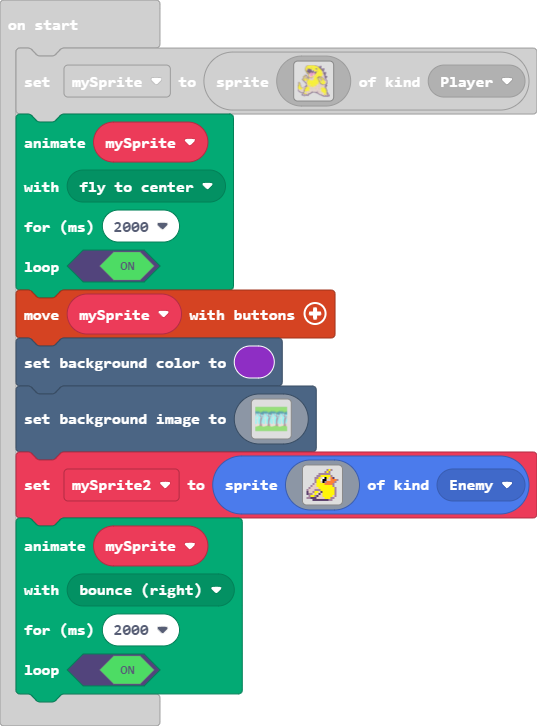
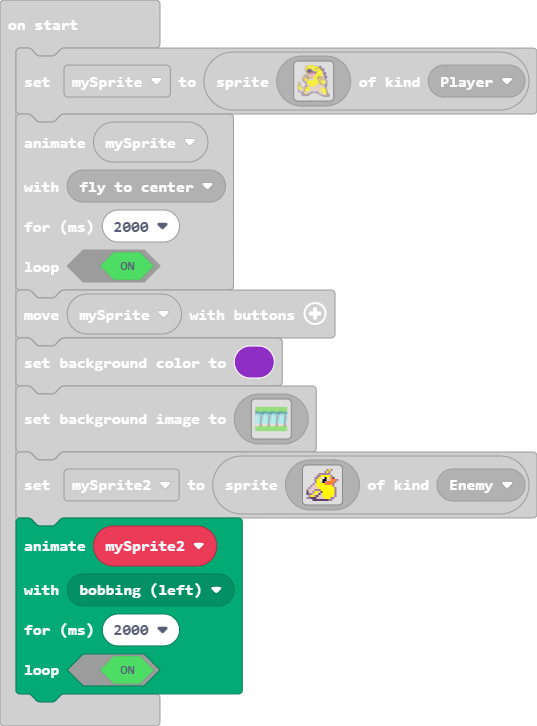
Update main.blocks, main.ts

diff --git a/main.ts b/main.ts
@@ -225,8 +225,8 @@ let mySprite2 = sprites.create(img`
     . . . c c c c c c c c b b . . . 
     `, SpriteKind.Enemy)
 animation.runMovementAnimation(
-mySprite,
-animation.animationPresets(animation.bounceRight),
+mySprite2,
+animation.animationPresets(animation.bobbingLeft),
 2000,
 true
 )
